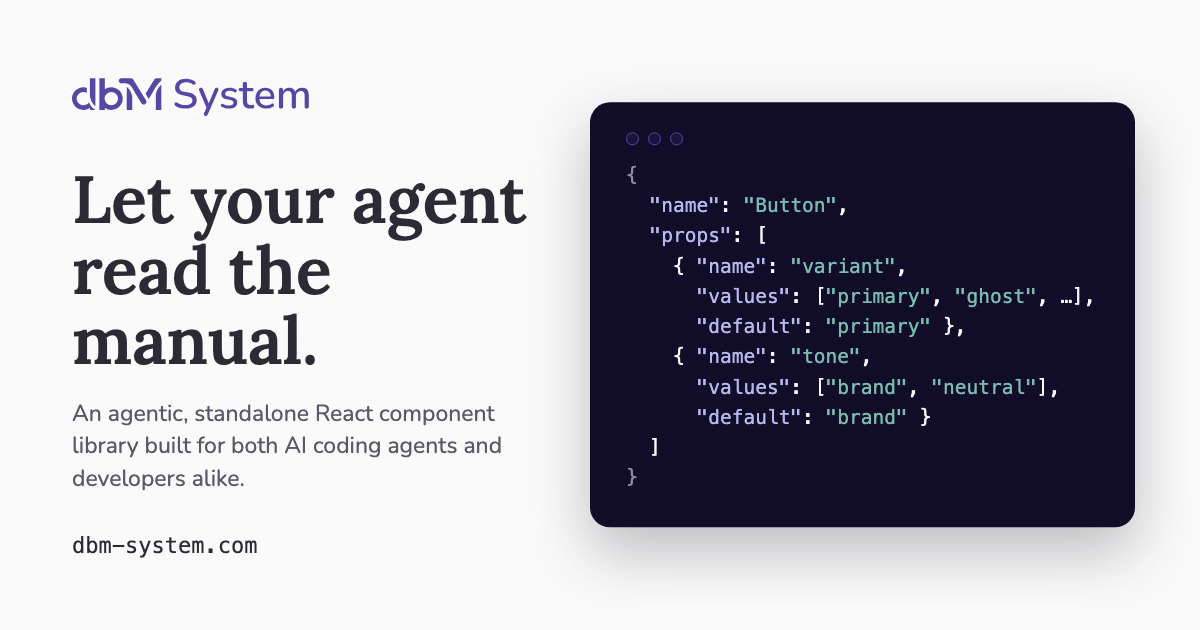
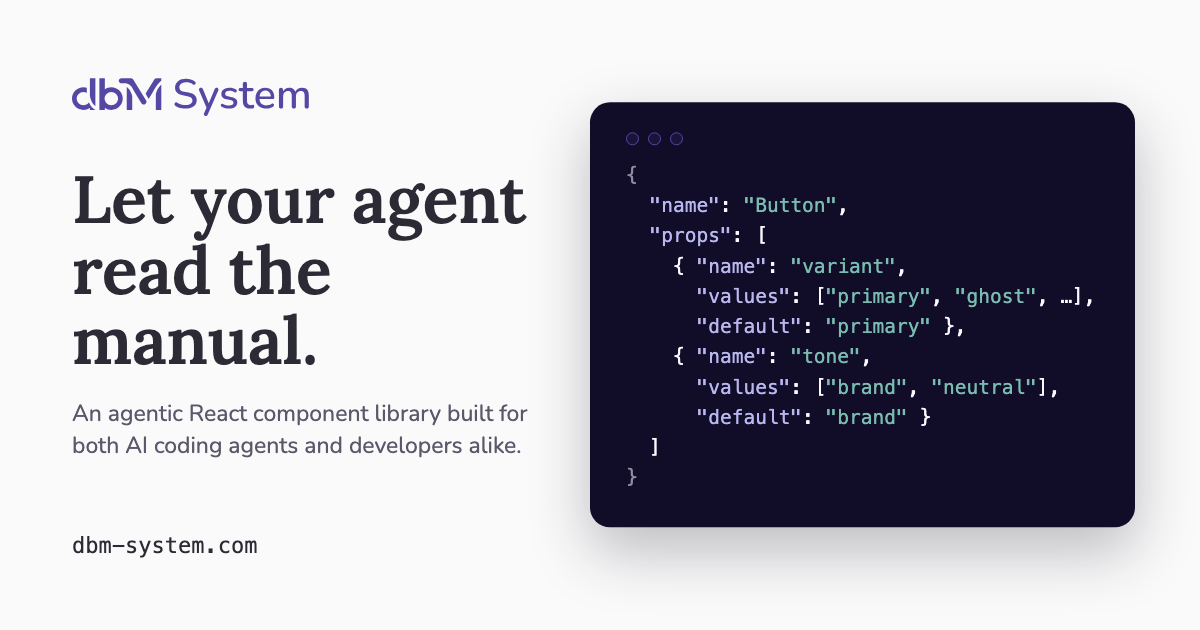
docs: the word standalone is dropped from the lede, the share image, the Storybook description and the canonical wording

Changed region(s): [[0.0617, 0.6333, 0.4317, 0.7238], [0.0617, 0.754, 0.2158, 0.7841]]

diff --git a/guidelines/docs-site/03-landing-page-brief.md b/guidelines/docs-site/03-landing-page-brief.md
@@ -28,7 +28,7 @@ One story: what it is and why it is different (1–2), the facts (3), the breadt
 
 | # | Section | Content | Interaction and motion |
 |---|---|---|---|
-| 1 | **Hero** | The tagline (the H1), a lede saying what the library is (an agentic, standalone React component library for AI coding agents and developers alike), the install line (package-manager tabs, copy); the primary action Get started (Storybook's Introduction page), the secondary Browse components | A **page of the manual**, drawn in CSS 3D from the tokens: on load it glides down like a feather, in wide swings and slightly bent, showing a specimen of the primitive tokens, and lands with a small bounce and a shadow; the specimen then breaks up and the JSON an agent reads resolves in its place (a real entry from the token index), and a light passes over the sheet. It floats a little at rest, tilts, skews and lifts as the reader scrolls and returns when they scroll back, and on desktop it leans toward the pointer |
+| 1 | **Hero** | The tagline (the H1), a lede saying what the library is (an agentic React component library for AI coding agents and developers alike), the install line (package-manager tabs, copy); the primary action Get started (Storybook's Introduction page), the secondary Browse components | A **page of the manual**, drawn in CSS 3D from the tokens: on load it glides down like a feather, in wide swings and slightly bent, showing a specimen of the primitive tokens, and lands with a small bounce and a shadow; the specimen then breaks up and the JSON an agent reads resolves in its place (a real entry from the token index), and a light passes over the sheet. It floats a little at rest, tilts, skews and lifts as the reader scrolls and returns when they scroll back, and on desktop it leans toward the pointer |
 | 2 | **Built for agents** | Why an agent works from facts, not guesses: the manifest, `AGENTS.md`, the token index; `llms.txt` among the files; a link to the AI agents page | Informational, with nothing typed in that can go out of date (no sizes or counts: the files are named and described) |
 | 3 | **Specification** | No visible title. Three cards in a row (stacked on a phone): **What it is** (an Exports row with the components, the two application shells included, and the hooks and functions, counted as Storybook's Components Index and the manifest count them; the themes; the version number alone), **What it needs** (React, the runtime dependencies, MIT) and **How it is built** (that WCAG 2.2 AA is the goal and is checked on every change, worded as a goal and not a guarantee for every element; what ships for agents). Every value is read from the packages at build | Informational: each card has a drawing at its top in shades of the brand colour (an isometric stack of layers, a hub with what it leans on, a key, a focus-ringed button and braces), from the tokens. Each drawing is choreographed and plays each time it scrolls into view, from either direction (the layers land and the parts draw in; the hub's rings grow and its dashes flow; the key is pressed, the focus ring draws itself and the braces write in); reduced motion shows it finished. No links and no interaction |
 | 4 | **All components** | Every component and shipped shell from the manifest (the example pages are in Storybook's Templates Index): name, tier, category, one sentence, each linking to its Docs page in Storybook. The same one-line descriptions as Storybook's Components Index, so the two can't drift | A DBM `DataTable` with a search box and tier and category filters; a compact first view with "Show all" |

diff --git a/CLAUDE.md b/CLAUDE.md
@@ -1,7 +1,7 @@
 # DBM System
 
 ## What this is
-An agentic, standalone React component library built for both AI coding agents and human developers to compose web and enterprise applications quickly, consistently, and accessibly — token-driven, with a strong TypeScript + JSDoc contract so agents can work against a structured, predictable API (canonical wording: `guidelines/01-vision-and-goals.md` §1). Published to npm under the `@dbm-system/*` scope (MIT licensed), the four public packages at one version, through the release workflow in `RELEASING.md`; the API is pre-1.0 (`guidelines/01-vision-and-goals.md` §13, Phase 8). Also home to the documentation: Storybook, hosted at dbm-system.com/storybook/, and a website with the home page and the agent files (`guidelines/docs-site/`). A Figma component library is planned as a future, separate deliverable derived from the same tokens.
+An agentic React component library built for both AI coding agents and human developers to compose web and enterprise applications quickly, consistently, and accessibly — token-driven, with a strong TypeScript + JSDoc contract so agents can work against a structured, predictable API (canonical wording: `guidelines/01-vision-and-goals.md` §1). Published to npm under the `@dbm-system/*` scope (MIT licensed), the four public packages at one version, through the release workflow in `RELEASING.md`; the API is pre-1.0 (`guidelines/01-vision-and-goals.md` §13, Phase 8). Also home to the documentation: Storybook, hosted at dbm-system.com/storybook/, and a website with the home page and the agent files (`guidelines/docs-site/`). A Figma component library is planned as a future, separate deliverable derived from the same tokens.
 
 **Before making any structural or architectural change, check `guidelines/` — don't assume or re-derive decisions that are already made there.**
 
